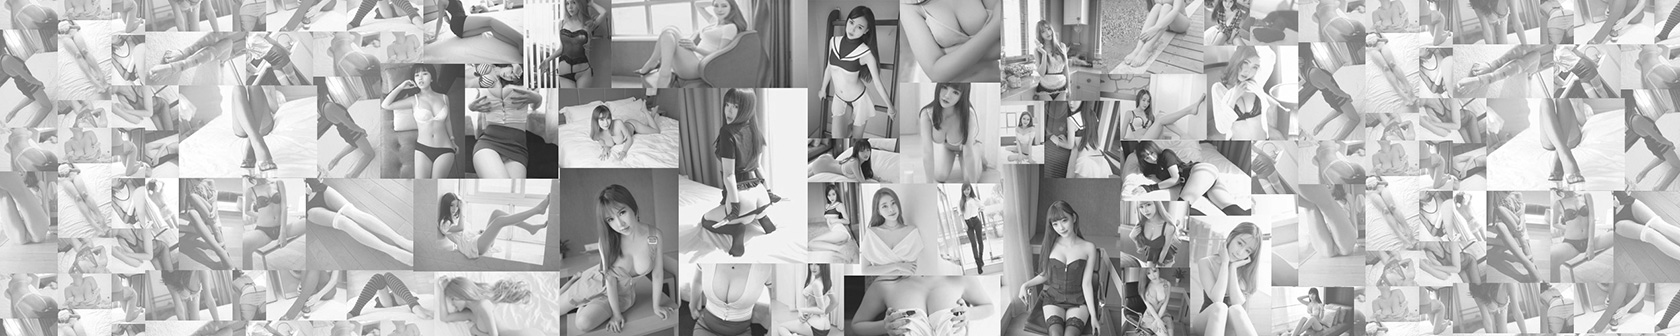
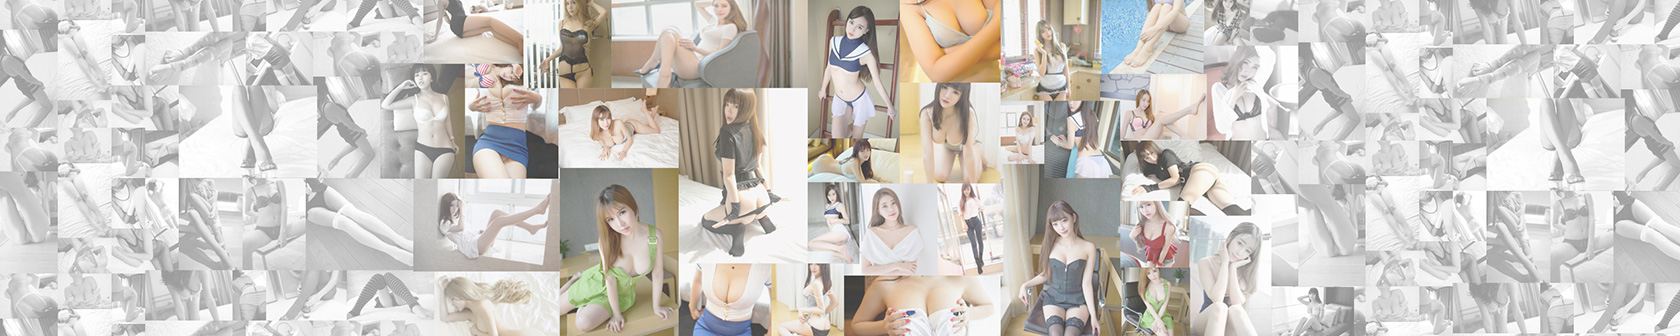
添加Article模板

diff --git a/src/containers/article/index.jsx b/src/containers/article/index.jsx
@@ -1,0 +1,71 @@
+import React                        from 'react'
+import { connect }                  from 'react-redux'
+import { Link }                     from 'react-router'
+import ClassNames                   from 'classnames'
+import * as styles                  from './style.scss'
+import randColor                    from '../../utils/randColor'
+import Icon                         from '../../components/icon'
+import InfiniteScroll               from 'react-infinite-scroller'
+import LineLoader                   from '../../components/lineLoader'
+import Actions                      from '../../actions'
+import thumbPlaceholder             from '../../assets/images/thumb-placeholder.png'
+import * as dateFormatter           from 'date-format'
+import Spinner                      from '../../components/spinner'
+
+class ArticlePage extends React.Component {
+    componentWillMount () {
+        this.props.getArticle(this.props.params.slug)
+    }
+
+    componentWillReceiveProps (nextProps) {
+        if (nextProps.params.slug !== this.props.params.slug) {
+            this.props.getArticle(nextProps.params.slug)
+        }
+    }
+
+    shouldComponentUpdate (nextProps, nextState) {
+        if (nextProps.params.slug !== this.props.params.slug || !this.props.article || nextProps.article.id !== this.props.article.id) {
+            return true
+        }
+        return false
+    }
+
+    render () {
+        if (!this.props.article) {
+            return (
+                <div className={styles.spinnerWrap}><Spinner size={60} thickness={2} /></div>
+            )
+        }
+
+        return (
+            <div className={ClassNames(styles.article, styles.content)}>
+                <div className={ClassNames(styles.inner)}>
+                    <div className={styles.heading}>
+                        <h1>{this.props.article.title}</h1>
+                        <div className={styles.time}>
+                            {`发布于 ${dateFormatter.asString('yyyy-MM-dd hh:mm', new Date(this.props.article.createdAt))}`}
+                            {this.props.article.updatedAt && ` · 更新于 ${dateFormatter.asString('yyyy-MM-dd hh:mm', new Date(this.props.article.updatedAt))}`}
+                        </div>
+                    </div>
+                    <div className={styles.body}>{this.props.article.content}</div>
+                </div>
+            </div>
+        )
+    }
+}
+
+const mapStateToProps = (state) => {
+    return {
+        article: state.article
+    }
+}
+
+const mapDispatchToProps = (dispatch) => {
+    return {
+        getArticle: (slug) => {
+            return dispatch(Actions.getArticle(slug))
+        }
+    }
+}
+
+export default connect(mapStateToProps, mapDispatchToProps)(ArticlePage)

diff --git a/src/components/header/moreMenu.jsx b/src/components/header/moreMenu.jsx
@@ -7,6 +7,7 @@ import MenuItem                                             from 'material-ui/Me
 import Icon                                                 from '../icon'
 import defaultAvatar                                        from '../../assets/images/avatar.png'
 import appConfig                                            from '../../../config'
+import { Link }                                             from 'react-router'
 
 export default class MoreMenu extends React.Component {
     static propTypes = {
@@ -35,7 +36,7 @@ export default class MoreMenu extends React.Component {
     }
 
     handleMenuItemClick = (event, menuItem, index) => {
-        location.href = menuItem.props.value
+        // location.href = menuItem.props.value
         this.handleRequestClose()
     }
 
@@ -46,9 +47,9 @@ export default class MoreMenu extends React.Component {
                 <Popover open={this.state.open} anchorEl={this.state.anchorEl} anchorOrigin={{horizontal: 'middle', vertical: 'bottom'}}
                     targetOrigin={{horizontal: 'middle', vertical: 'top'}} onRequestClose={this.handleRequestClose}>
                     <Menu onItemTouchTap={this.handleMenuItemClick}>
-                        <MenuItem primaryText="FAQ" value="/faq" />
-                        <MenuItem primaryText="条款" value="/terms" />
-                        <MenuItem primaryText="关于" value="/about" />
+                        <MenuItem className={styles.moreMeunItem}><Link to="/article/faq">FAQ</Link></MenuItem>
+                        <MenuItem className={styles.moreMeunItem}><Link to="/article/terms">条款</Link></MenuItem>
+                        <MenuItem className={styles.moreMeunItem}><Link to="/article/about">关于</Link></MenuItem>
                     </Menu>
                 </Popover>
             </li>

diff --git a/src/actions/article.js b/src/actions/article.js
@@ -1,0 +1,51 @@
+import CONSTANTS                from '../constants'
+import axios                    from 'axios'
+import reactCookie              from 'react-cookie'
+import appConfig                from '../../config'
+import Mock                     from 'mockjs'
+
+export const getArticle = (slug) => {
+    return dispatch => {
+        dispatch({
+            type: CONSTANTS.FETCH_ARTICLE
+        })
+
+        // Mock
+        Mock.Random.title()
+        Mock.Random.dataImage()
+        Mock.Random.cname()
+        Mock.Random.date()
+        Mock.Random.paragraph()
+        let article = Mock.mock({
+            'id|1-1000': 1,
+            'slug': slug,
+            'title': '@title',
+            'images|1-5': [{
+                'url': '@dataImage(300x225)',
+                'title': '@title'
+            }],
+            'featuredImage': {
+                'url': '@dataImage(300x225)',
+                'title': '@title'
+            },
+            'likes|0-1000': 20,
+            'commentsCount|0-100': 1,
+            'views|10-10000': 100,
+            'author': {
+                'id|1-1000': 1,
+                'name': '@cname',
+                'avatar': '@dataImage(64x64)'
+            },
+            'createdAt': '@date(yyyy-MM-dd)',
+            'updatedAt': '@date(yyyy-MM-dd)',
+            'content': '@paragraph(1, 5)'
+        })
+
+        dispatch({
+            type: CONSTANTS.FETCH_ARTICLE_SUCCESS,
+            payload: article
+        })
+
+        // MockEnd
+    }
+}

diff --git a/src/components/vistorBanner/index.jsx b/src/components/vistorBanner/index.jsx
@@ -4,11 +4,12 @@ import * as styles                                              from './style.sc
 import RaisedButton                                             from 'material-ui/RaisedButton'
 import appConfig                                                from '../../../config'
 import banner                                                   from '../../assets/images/gallery.jpg'
+import bannerGray                                                   from '../../assets/images/gallery-gray.jpg'
 
 export default class VistorBanner extends React.Component {
     render () {
         return (
-            <div className={styles.indexBanner} style={{backgroundImage: `url(${banner})`}}>
+            <div className={styles.indexBanner} style={{backgroundImage: `url(${Math.random() > 0.5 ? banner : bannerGray})`}}>
                 <div className={styles.inner}>
                     <div className={styles.content}>
                         <h1>放松、愉悦、飨以身心</h1>

diff --git a/src/components/homePopularPosts/index.jsx b/src/components/homePopularPosts/index.jsx
@@ -35,7 +35,6 @@ class HomePopularPosts extends React.Component {
         if (this.state.images !== this.props.homePopularPosts.length) {
             return
         }
-        console.log(this.state.page)
         this.props.getPopularPosts(this.state.page + 1)
     }
 
@@ -77,7 +76,7 @@ class HomePopularPosts extends React.Component {
 
         return (
             <div className={styles.homePosts}>
-                <Masonry className={ClassNames(styles.row, styles.masonryWrap)} ref={this.referMasonry} sizes={sizes} style={{margin: '0 auto'}} pack={true} threshold={100} hasMore={true} loadMore={this.handleLoadMore} loader={loader}>
+                <Masonry className={ClassNames(styles.row, styles.masonryWrap)} ref={this.referMasonry} initialLoad={true} sizes={sizes} style={{margin: '0 auto'}} pack={true} threshold={100} hasMore={true} loadMore={this.handleLoadMore} loader={loader}>
                     {items}
                 </Masonry>
             </div>

diff --git a/src/routes.jsx b/src/routes.jsx
@@ -16,6 +16,7 @@ import CollectionsPage from './containers/collections'
 import CollectionPage from './containers/collection'
 import AuthorPage from './containers/author' // 包含多个Tabs
 import SearchResultsPage from './containers/search'
+import ArticlePage from './containers/article'
 
 const saveToken = (state, replace) => {
     const { pathname, search } = state.location
@@ -67,6 +68,7 @@ export default (history, user) => {
                 <Route path="/user/:id" component={AuthorPage} onEnter={triggerEnter} onLeave={triggerLeave}/>
                 <Route path="/user/:id/:tab" component={AuthorPage} onEnter={triggerEnter} onLeave={triggerLeave}/>
                 <Route path="/search" component={SearchResultsPage} onEnter={triggerEnter} onLeave={triggerLeave}/>
+                <Route path="/article/:slug" component={ArticlePage} onEnter={triggerEnter} onLeave={triggerLeave}/>
             </Route>
         </Router>
     )

diff --git a/src/containers/article/style.scss b/src/containers/article/style.scss
@@ -1,0 +1,56 @@
+@import "../../styles/variable";
+
+.spinnerWrap {
+    width: 60px;
+    height: 60px;
+    position: fixed;
+    top: 50%;
+    left: 50%;
+    margin-top: -30px;
+    margin-left: -30px;
+}
+
+.content {
+    margin: 0 auto;
+    padding: 20px 0;
+    max-width: 1060px;
+    min-height: 500px;
+}
+
+.inner {
+    padding: 20px;
+}
+
+.heading {
+    text-align: center;
+    .title {
+        font-size: 20px;
+        margin: 10px auto 20px;
+    }
+    .time {
+        color: $muteColor;
+        font-size: 14px;
+    }
+}
+
+.body {
+    font-size: 15px;
+    line-height: 1.5;
+    color: $mainColor;
+    margin-top: 30px;
+    h2 {
+        font-size: 20px;
+    }
+    h3,
+    h4 {
+        font-size: 18px;
+    }
+    h5,
+    h6 {
+        font-size: 16px;
+    }
+    p {
+        text-indent: 2em;
+        margin-top: 10px;
+    }
+}

diff --git a/src/reducers/index.js b/src/reducers/index.js
@@ -32,6 +32,8 @@ import {
 
 import { searchResultReducer }                            from './search'
 
+import { articleReducer }                                 from './article'
+
 export default combineReducers({
     routing: routerReducer,
     user,
@@ -56,5 +58,6 @@ export default combineReducers({
     authorCollections: authorCollectionsReducer,
     authorFollowers: authorFollowersReducer,
     authorFollowing: authorFollowingReducer,
-    searchResult: searchResultReducer
+    searchResult: searchResultReducer,
+    article: articleReducer
 })

diff --git a/src/constants/others.js b/src/constants/others.js
@@ -6,3 +6,8 @@ export const FETCH_SEARCH_RESULTS = 'FETCH_SEARCH_RESULTS'
 export const FETCH_SEARCH_RESULTS_SUCCESS = 'FETCH_SEARCH_RESULTS_SUCCESS'
 export const FETCH_SEARCH_RESULTS_FAIL = 'FETCH_SEARCH_RESULTS_FAIL'
 export const CLEAN_SEARCH_SHARE_RESULTS = 'CLEAN_SEARCH_SHARE_RESULTS'
+
+// article
+export const FETCH_ARTICLE = 'FETCH_ARTICLE'
+export const FETCH_ARTICLE_SUCCESS = 'FETCH_ARTICLE_SUCCESS'
+export const FETCH_ARTICLE_FAIL = 'FETCH_ARTICLE_FAIL'

diff --git a/src/actions/index.js b/src/actions/index.js
@@ -3,6 +3,7 @@ import * as post           from './post'
 import * as collection     from './collection'
 import * as tag            from './tag'
 import * as search         from './search'
+import * as article        from './article'
 
 export default Object.assign(
     {},
@@ -10,5 +11,6 @@ export default Object.assign(
     post,
     collection,
     tag,
-    search
+    search,
+    article
 )

diff --git a/src/reducers/article.js b/src/reducers/article.js
@@ -1,0 +1,10 @@
+import CONSTANTS               from '../constants'
+
+export function articleReducer (state = null, action) {
+    switch (action.type) {
+        case CONSTANTS.FETCH_ARTICLE_SUCCESS:
+            return action.payload
+        default:
+            return state
+    }
+}

diff --git a/src/components/header/style.scss b/src/components/header/style.scss
@@ -1,3 +1,5 @@
+@import "../../styles/variable";
+
 .headerWrap {
     
 }
@@ -172,6 +174,13 @@
 
 .moreMeun {
 
+}
+
+.moreMeunItem {
+    a,
+    a:hover {
+        color: $weightColor;
+    }
 }
 
 .secondaryNav {
